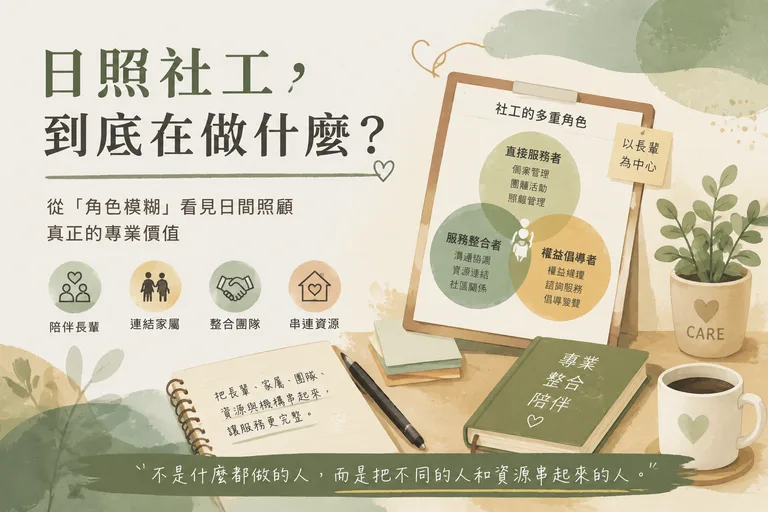
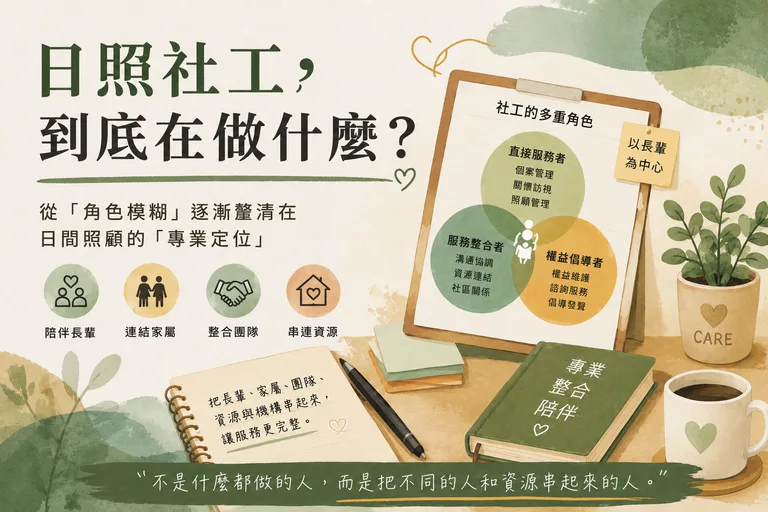
content: 〈日照社工，到底在做什麼？〉換標題、換主視覺、固定排序
標題改為「⋯從『角色模糊』逐漸釐清在日間照顧的『專業定位』」，
seoTitle 與 heroAlt 一併對齊（新圖的三圓改成關懷訪視、交集處多了圖示）。

發布日期從 2026-08-08 改到 08-07。原本兩篇同一天，順序是靠「更新時間」
的次要排序決定的，只要動到這篇它就會跳回最前面。給不同的發布日之後，
它排在〈角色困境〉後面就固定了，之後再改內容也不會亂。

diff --git a/docs/20260808-day-care-social-worker-role/index.html b/docs/20260808-day-care-social-worker-role/index.html
@@ -3,24 +3,24 @@
 <head>
 <meta charset="utf-8" />
 <meta name="viewport" content="width=device-width, initial-scale=1, viewport-fit=cover" />
-<title>日照社工到底在做什麼？從角色模糊釐清日間照顧的專業定位｜顏和平</title>
+<title>日照社工到底在做什麼？從角色模糊逐漸釐清日間照顧的專業定位｜顏和平</title>
 <meta name="description" content="日照社工什麼都做，專業卻難以被說清楚。從訪談六位日照管理者與六位社工的研究出發，拆解日照社工的角色層次、所需能力，以及機構該如何重新界定權責。" />
 <meta name="author" content="顏和平" />
 <meta name="color-scheme" content="light dark" />
 <meta property="og:type" content="article" />
 <meta property="og:site_name" content="顏和平｜長照營運與評鑑顧問" />
-<meta property="og:title" content="日照社工到底在做什麼？從角色模糊釐清日間照顧的專業定位｜顏和平" />
+<meta property="og:title" content="日照社工到底在做什麼？從角色模糊逐漸釐清日間照顧的專業定位｜顏和平" />
 <meta property="og:description" content="日照社工什麼都做，專業卻難以被說清楚。從訪談六位日照管理者與六位社工的研究出發，拆解日照社工的角色層次、所需能力，以及機構該如何重新界定權責。" />
 <meta property="og:locale" content="zh_TW" />
 <meta property="og:image" content="https://peaceyen.net/assets/img/hero-day-care-social-worker-1536.webp" />
 <meta property="og:image:width" content="1536" />
 <meta property="og:image:height" content="1024" />
-<meta property="og:image:alt" content="文章主視覺「日照社工，到底在做什麼？從『角色模糊』看見日間照顧真正的專業價值」。左側標題下方列出四個圖示：陪伴長輩、連結家屬、整合團隊、串連資源。右側畫著一塊寫有「社工的多重角色」的板夾，以三個交疊的圓呈現直接服務者（個案管理、團體活動、照顧管理）、服務整合者（溝通協調、資源連結、社區關係）與權益倡導者（權益維護、諮詢服務、倡導發聲），交集處貼著「以長輩為中心」的便條。桌面上有筆記本，寫著「把長輩、家屬、團隊、資源與機構串起來，讓服務更完整」，旁邊放著標示「專業・整合・陪伴」的書本、盆栽與咖啡杯。最下方標語為「不是什麼都做的人，而是把不同的人和資源串起來的人。」" />
+<meta property="og:image:alt" content="文章主視覺「日照社工，到底在做什麼？從『角色模糊』逐漸釐清在日間照顧的『專業定位』」。左側標題下方列出四個圖示：陪伴長輩、連結家屬、整合團隊、串連資源。右側畫著一塊寫有「社工的多重角色」的板夾，以三個交疊的圓呈現直接服務者（個案管理、關懷訪視、照顧管理）、服務整合者（溝通協調、資源連結、社區關係）與權益倡導者（權益維護、諮詢服務、倡導發聲），三圓交集處畫著一位社工陪伴長輩的圖示，旁邊貼著「以長輩為中心」的便條。桌面上有筆記本，寫著「把長輩、家屬、團隊、資源與機構串起來，讓服務更完整」，旁邊放著標示「專業・整合・陪伴」的書本、盆栽與咖啡杯。最下方標語為「不是什麼都做的人，而是把不同的人和資源串起來的人。」" />
 <meta name="twitter:card" content="summary_large_image" />
-<meta name="twitter:title" content="日照社工到底在做什麼？從角色模糊釐清日間照顧的專業定位｜顏和平" />
+<meta name="twitter:title" content="日照社工到底在做什麼？從角色模糊逐漸釐清日間照顧的專業定位｜顏和平" />
 <meta name="twitter:description" content="日照社工什麼都做，專業卻難以被說清楚。從訪談六位日照管理者與六位社工的研究出發，拆解日照社工的角色層次、所需能力，以及機構該如何重新界定權責。" />
 <meta name="twitter:image" content="https://peaceyen.net/assets/img/hero-day-care-social-worker-1536.webp" />
-<meta name="twitter:image:alt" content="文章主視覺「日照社工，到底在做什麼？從『角色模糊』看見日間照顧真正的專業價值」。左側標題下方列出四個圖示：陪伴長輩、連結家屬、整合團隊、串連資源。右側畫著一塊寫有「社工的多重角色」的板夾，以三個交疊的圓呈現直接服務者（個案管理、團體活動、照顧管理）、服務整合者（溝通協調、資源連結、社區關係）與權益倡導者（權益維護、諮詢服務、倡導發聲），交集處貼著「以長輩為中心」的便條。桌面上有筆記本，寫著「把長輩、家屬、團隊、資源與機構串起來，讓服務更完整」，旁邊放著標示「專業・整合・陪伴」的書本、盆栽與咖啡杯。最下方標語為「不是什麼都做的人，而是把不同的人和資源串起來的人。」" />
+<meta name="twitter:image:alt" content="文章主視覺「日照社工，到底在做什麼？從『角色模糊』逐漸釐清在日間照顧的『專業定位』」。左側標題下方列出四個圖示：陪伴長輩、連結家屬、整合團隊、串連資源。右側畫著一塊寫有「社工的多重角色」的板夾，以三個交疊的圓呈現直接服務者（個案管理、關懷訪視、照顧管理）、服務整合者（溝通協調、資源連結、社區關係）與權益倡導者（權益維護、諮詢服務、倡導發聲），三圓交集處畫著一位社工陪伴長輩的圖示，旁邊貼著「以長輩為中心」的便條。桌面上有筆記本，寫著「把長輩、家屬、團隊、資源與機構串起來，讓服務更完整」，旁邊放著標示「專業・整合・陪伴」的書本、盆栽與咖啡杯。最下方標語為「不是什麼都做的人，而是把不同的人和資源串起來的人。」" />
 <meta property="og:url" content="https://peaceyen.net/20260808-day-care-social-worker-role/" />
 <link rel="canonical" href="https://peaceyen.net/20260808-day-care-social-worker-role/" />
 <link rel="stylesheet" href="../assets/css/site.css?v=919bf9b5eb" />
@@ -28,10 +28,10 @@
 <link rel="icon" href="../favicon.ico" sizes="32x32" />
 <link rel="apple-touch-icon" href="../assets/img/icon-512.png" />
 <link rel="alternate" type="application/rss+xml" title="顏和平｜長照營運與評鑑顧問" href="../feed.xml" />
-<meta property="article:published_time" content="2026-08-08" />
+<meta property="article:published_time" content="2026-08-07" />
 <meta property="article:modified_time" content="2026-08-08" />
 <meta property="article:author" content="顏和平" />
-<script type="application/ld+json">{"@context":"https://schema.org","@graph":[{"@type":"WebSite","@id":"https://peaceyen.net/#website","url":"https://peaceyen.net/","name":"顏和平｜長照營運與評鑑顧問","alternateName":"機構經營實務筆記","inLanguage":"zh-Hant-TW","publisher":{"@id":"https://peaceyen.net/about/#person"}},{"@type":"BlogPosting","headline":"日照社工，到底在做什麼？從「角色模糊」釐清在日間照顧的專業定位","description":"長輩有問題找社工、家屬有疑問找社工、活動要規劃也找社工。日照社工好像什麼都能做，卻也因此很難說清楚自己的專業到底是什麼。這篇從我過去的研究出發，談日照社工的角色、需要的能力，以及機構可以怎麼重新看待這個位置。","inLanguage":"zh-Hant-TW","isPartOf":{"@id":"https://peaceyen.net/#website"},"breadcrumb":{"@id":"https://peaceyen.net/20260808-day-care-social-worker-role/#breadcrumb"},"url":"https://peaceyen.net/20260808-day-care-social-worker-role/","mainEntityOfPage":{"@type":"WebPage","@id":"https://peaceyen.net/20260808-day-care-social-worker-role/"},"image":{"@type":"ImageObject","url":"https://peaceyen.net/assets/img/hero-day-care-social-worker-1536.webp","width":1536,"height":1024},"datePublished":"2026-08-08","dateModified":"2026-08-08","author":{"@id":"https://peaceyen.net/about/#person"},"publisher":{"@id":"https://peaceyen.net/about/#person"},"keywords":"日間照顧, 社會工作, 專業角色"},{"@type":"BreadcrumbList","@id":"https://peaceyen.net/20260808-day-care-social-worker-role/#breadcrumb","itemListElement":[{"@type":"ListItem","position":1,"name":"顏和平｜長照營運與評鑑顧問","item":"https://peaceyen.net/"},{"@type":"ListItem","position":2,"name":"全部文章","item":"https://peaceyen.net/articles/"},{"@type":"ListItem","position":3,"name":"日照社工，到底在做什麼？從「角色模糊」釐清在日間照顧的專業定位"}]}]}</script>
+<script type="application/ld+json">{"@context":"https://schema.org","@graph":[{"@type":"WebSite","@id":"https://peaceyen.net/#website","url":"https://peaceyen.net/","name":"顏和平｜長照營運與評鑑顧問","alternateName":"機構經營實務筆記","inLanguage":"zh-Hant-TW","publisher":{"@id":"https://peaceyen.net/about/#person"}},{"@type":"BlogPosting","headline":"日照社工，到底在做什麼？從「角色模糊」逐漸釐清在日間照顧的「專業定位」","description":"長輩有問題找社工、家屬有疑問找社工、活動要規劃也找社工。日照社工好像什麼都能做，卻也因此很難說清楚自己的專業到底是什麼。這篇從我過去的研究出發，談日照社工的角色、需要的能力，以及機構可以怎麼重新看待這個位置。","inLanguage":"zh-Hant-TW","isPartOf":{"@id":"https://peaceyen.net/#website"},"breadcrumb":{"@id":"https://peaceyen.net/20260808-day-care-social-worker-role/#breadcrumb"},"url":"https://peaceyen.net/20260808-day-care-social-worker-role/","mainEntityOfPage":{"@type":"WebPage","@id":"https://peaceyen.net/20260808-day-care-social-worker-role/"},"image":{"@type":"ImageObject","url":"https://peaceyen.net/assets/img/hero-day-care-social-worker-1536.webp","width":1536,"height":1024},"datePublished":"2026-08-07","dateModified":"2026-08-08","author":{"@id":"https://peaceyen.net/about/#person"},"publisher":{"@id":"https://peaceyen.net/about/#person"},"keywords":"日間照顧, 社會工作, 專業角色"},{"@type":"BreadcrumbList","@id":"https://peaceyen.net/20260808-day-care-social-worker-role/#breadcrumb","itemListElement":[{"@type":"ListItem","position":1,"name":"顏和平｜長照營運與評鑑顧問","item":"https://peaceyen.net/"},{"@type":"ListItem","position":2,"name":"全部文章","item":"https://peaceyen.net/articles/"},{"@type":"ListItem","position":3,"name":"日照社工，到底在做什麼？從「角色模糊」逐漸釐清在日間照顧的「專業定位」"}]}]}</script>
 <script>
   window.__SITE__ = { counter: { apiBase: "https://peaceyen.net" } };
 </script>
@@ -63,13 +63,13 @@
 
       <section class="hero">
         <figure class="hero__figure">
-          <a class="hero__zoom" href="../assets/img/hero-day-care-social-worker-1536.webp?v=f636309517" target="_blank" rel="noopener noreferrer" aria-describedby="hero-caption">
+          <a class="hero__zoom" href="../assets/img/hero-day-care-social-worker-1536.webp?v=20ad0a0def" target="_blank" rel="noopener noreferrer" aria-describedby="hero-caption">
             <img
             class="hero__img"
-            src="../assets/img/hero-day-care-social-worker-1536.webp?v=f636309517"
-            srcset="../assets/img/hero-day-care-social-worker-768.webp?v=1c478fbc16 768w, ../assets/img/hero-day-care-social-worker-1152.webp?v=a0abfc4b02 1152w, ../assets/img/hero-day-care-social-worker-1536.webp?v=f636309517 1536w"
+            src="../assets/img/hero-day-care-social-worker-1536.webp?v=20ad0a0def"
+            srcset="../assets/img/hero-day-care-social-worker-768.webp?v=eba2ad1f05 768w, ../assets/img/hero-day-care-social-worker-1152.webp?v=901bdd18dc 1152w, ../assets/img/hero-day-care-social-worker-1536.webp?v=20ad0a0def 1536w"
             sizes="(max-width: 44rem) 100vw, 42rem"
-            alt="文章主視覺「日照社工，到底在做什麼？從『角色模糊』看見日間照顧真正的專業價值」。左側標題下方列出四個圖示：陪伴長輩、連結家屬、整合團隊、串連資源。右側畫著一塊寫有「社工的多重角色」的板夾，以三個交疊的圓呈現直接服務者（個案管理、團體活動、照顧管理）、服務整合者（溝通協調、資源連結、社區關係）與權益倡導者（權益維護、諮詢服務、倡導發聲），交集處貼著「以長輩為中心」的便條。桌面上有筆記本，寫著「把長輩、家屬、團隊、資源與機構串起來，讓服務更完整」，旁邊放著標示「專業・整合・陪伴」的書本、盆栽與咖啡杯。最下方標語為「不是什麼都做的人，而是把不同的人和資源串起來的人。」"
+            alt="文章主視覺「日照社工，到底在做什麼？從『角色模糊』逐漸釐清在日間照顧的『專業定位』」。左側標題下方列出四個圖示：陪伴長輩、連結家屬、整合團隊、串連資源。右側畫著一塊寫有「社工的多重角色」的板夾，以三個交疊的圓呈現直接服務者（個案管理、關懷訪視、照顧管理）、服務整合者（溝通協調、資源連結、社區關係）與權益倡導者（權益維護、諮詢服務、倡導發聲），三圓交集處畫著一位社工陪伴長輩的圖示，旁邊貼著「以長輩為中心」的便條。桌面上有筆記本，寫著「把長輩、家屬、團隊、資源與機構串起來，讓服務更完整」，旁邊放著標示「專業・整合・陪伴」的書本、盆栽與咖啡杯。最下方標語為「不是什麼都做的人，而是把不同的人和資源串起來的人。」"
             width="1536"
             height="1024"
             fetchpriority="high"
@@ -80,7 +80,7 @@
         </figure>
         <div class="hero__text">
           <p class="hero__eyebrow">日間照顧</p>
-          <h1 class="hero__title">日照社工，到底在做什麼？從「角色模糊」釐清在日間照顧的專業定位</h1>
+          <h1 class="hero__title">日照社工，到底在做什麼？從「角色模糊」逐漸釐清在日間照顧的「專業定位」</h1>
           <p class="hero__lede">長輩有問題找社工、家屬有疑問找社工、活動要規劃也找社工。日照社工好像什麼都能做，卻也因此很難說清楚自己的專業到底是什麼。這篇從我過去的研究出發，談日照社工的角色、需要的能力，以及機構可以怎麼重新看待這個位置。</p>
         </div>
       </section>
@@ -91,14 +91,14 @@
             <span aria-hidden="true">›</span>
             <a href="../articles/">全部文章</a>
             <span aria-hidden="true">›</span>
-            <span aria-current="page">日照社工，到底在做什麼？從「角色模糊」釐清在日間照顧的專業定位</span>
+            <span aria-current="page">日照社工，到底在做什麼？從「角色模糊」逐漸釐清在日間照顧的「專業定位」</span>
           </nav>
           <div class="post__head">
             <p class="post__meta">
               <span class="post__author">作者：顏和平</span>
               <span class="dot" aria-hidden="true">·</span>
-              <span>發布 <time datetime="2026-08-08">2026-08-08</time></span>
-              
+              <span>發布 <time datetime="2026-08-07">2026-08-07</time></span>
+              <span class="dot" aria-hidden="true">·</span><span>最後更新 <time datetime="2026-08-08">2026-08-08</time></span>
               <span class="dot" aria-hidden="true">·</span>
               <span>瀏覽 <span data-views="20260808-day-care-social-worker-role"><span class="sr-only">尚未載入</span><span aria-hidden="true">–</span></span></span>
             </p>
@@ -111,7 +111,7 @@
             <a class="share__btn" href="https://www.facebook.com/sharer/sharer.php?u=https%3A%2F%2Fpeaceyen.net%2F20260808-day-care-social-worker-role%2F" target="_blank" rel="noopener noreferrer" aria-describedby="newtab-note" aria-label="分享到 Facebook" title="分享到 Facebook">
               <svg viewBox="0 0 24 24" fill="none" stroke="currentColor" stroke-width="1.6" stroke-linecap="round" stroke-linejoin="round" aria-hidden="true" focusable="false"><path d="M17 2h-3a5 5 0 0 0-5 5v3H6v4h3v8h4v-8h3l1-4h-4V7a1 1 0 0 1 1-1h3z"/></svg>
             </a>
-            <a class="share__btn" href="https://social-plugins.line.me/lineit/share?url=https%3A%2F%2Fpeaceyen.net%2F20260808-day-care-social-worker-role%2F&amp;text=%E6%97%A5%E7%85%A7%E7%A4%BE%E5%B7%A5%EF%BC%8C%E5%88%B0%E5%BA%95%E5%9C%A8%E5%81%9A%E4%BB%80%E9%BA%BC%EF%BC%9F%E5%BE%9E%E3%80%8C%E8%A7%92%E8%89%B2%E6%A8%A1%E7%B3%8A%E3%80%8D%E9%87%90%E6%B8%85%E5%9C%A8%E6%97%A5%E9%96%93%E7%85%A7%E9%A1%A7%E7%9A%84%E5%B0%88%E6%A5%AD%E5%AE%9A%E4%BD%8D" target="_blank" rel="noopener noreferrer" aria-describedby="newtab-note" aria-label="分享到 LINE" title="分享到 LINE">
+            <a class="share__btn" href="https://social-plugins.line.me/lineit/share?url=https%3A%2F%2Fpeaceyen.net%2F20260808-day-care-social-worker-role%2F&amp;text=%E6%97%A5%E7%85%A7%E7%A4%BE%E5%B7%A5%EF%BC%8C%E5%88%B0%E5%BA%95%E5%9C%A8%E5%81%9A%E4%BB%80%E9%BA%BC%EF%BC%9F%E5%BE%9E%E3%80%8C%E8%A7%92%E8%89%B2%E6%A8%A1%E7%B3%8A%E3%80%8D%E9%80%90%E6%BC%B8%E9%87%90%E6%B8%85%E5%9C%A8%E6%97%A5%E9%96%93%E7%85%A7%E9%A1%A7%E7%9A%84%E3%80%8C%E5%B0%88%E6%A5%AD%E5%AE%9A%E4%BD%8D%E3%80%8D" target="_blank" rel="noopener noreferrer" aria-describedby="newtab-note" aria-label="分享到 LINE" title="分享到 LINE">
               <svg viewBox="0 0 24 24" fill="none" stroke="currentColor" stroke-width="1.6" stroke-linecap="round" stroke-linejoin="round" aria-hidden="true" focusable="false"><path d="M21 10.4c0-4.1-4-7.4-9-7.4S3 6.3 3 10.4c0 3.6 3.2 6.7 7.5 7.3.3.1.7.2.8.5.1.3.1.6 0 .9l-.1.8c0 .3-.2 1 .9.5s5.7-3.4 7.7-5.8h0A6.6 6.6 0 0 0 21 10.4z"/></svg>
             </a>
             <span class="share__status" role="status" aria-live="polite"></span>
@@ -224,7 +224,7 @@
             <a class="share__btn" href="https://www.facebook.com/sharer/sharer.php?u=https%3A%2F%2Fpeaceyen.net%2F20260808-day-care-social-worker-role%2F" target="_blank" rel="noopener noreferrer" aria-describedby="newtab-note">
               <svg viewBox="0 0 24 24" fill="none" stroke="currentColor" stroke-width="1.6" stroke-linecap="round" stroke-linejoin="round" aria-hidden="true" focusable="false"><path d="M17 2h-3a5 5 0 0 0-5 5v3H6v4h3v8h4v-8h3l1-4h-4V7a1 1 0 0 1 1-1h3z"/></svg><span>Facebook</span>
             </a>
-            <a class="share__btn" href="https://social-plugins.line.me/lineit/share?url=https%3A%2F%2Fpeaceyen.net%2F20260808-day-care-social-worker-role%2F&amp;text=%E6%97%A5%E7%85%A7%E7%A4%BE%E5%B7%A5%EF%BC%8C%E5%88%B0%E5%BA%95%E5%9C%A8%E5%81%9A%E4%BB%80%E9%BA%BC%EF%BC%9F%E5%BE%9E%E3%80%8C%E8%A7%92%E8%89%B2%E6%A8%A1%E7%B3%8A%E3%80%8D%E9%87%90%E6%B8%85%E5%9C%A8%E6%97%A5%E9%96%93%E7%85%A7%E9%A1%A7%E7%9A%84%E5%B0%88%E6%A5%AD%E5%AE%9A%E4%BD%8D" target="_blank" rel="noopener noreferrer" aria-describedby="newtab-note">
+            <a class="share__btn" href="https://social-plugins.line.me/lineit/share?url=https%3A%2F%2Fpeaceyen.net%2F20260808-day-care-social-worker-role%2F&amp;text=%E6%97%A5%E7%85%A7%E7%A4%BE%E5%B7%A5%EF%BC%8C%E5%88%B0%E5%BA%95%E5%9C%A8%E5%81%9A%E4%BB%80%E9%BA%BC%EF%BC%9F%E5%BE%9E%E3%80%8C%E8%A7%92%E8%89%B2%E6%A8%A1%E7%B3%8A%E3%80%8D%E9%80%90%E6%BC%B8%E9%87%90%E6%B8%85%E5%9C%A8%E6%97%A5%E9%96%93%E7%85%A7%E9%A1%A7%E7%9A%84%E3%80%8C%E5%B0%88%E6%A5%AD%E5%AE%9A%E4%BD%8D%E3%80%8D" target="_blank" rel="noopener noreferrer" aria-describedby="newtab-note">
               <svg viewBox="0 0 24 24" fill="none" stroke="currentColor" stroke-width="1.6" stroke-linecap="round" stroke-linejoin="round" aria-hidden="true" focusable="false"><path d="M21 10.4c0-4.1-4-7.4-9-7.4S3 6.3 3 10.4c0 3.6 3.2 6.7 7.5 7.3.3.1.7.2.8.5.1.3.1.6 0 .9l-.1.8c0 .3-.2 1 .9.5s5.7-3.4 7.7-5.8h0A6.6 6.6 0 0 0 21 10.4z"/></svg><span>LINE</span>
             </a>
             <span class="share__status" role="status" aria-live="polite"></span>

diff --git a/docs/index.html b/docs/index.html
@@ -28,7 +28,7 @@
 <link rel="icon" href="favicon.ico" sizes="32x32" />
 <link rel="apple-touch-icon" href="assets/img/icon-512.png" />
 <link rel="alternate" type="application/rss+xml" title="顏和平｜長照營運與評鑑顧問" href="feed.xml" />
-<script type="application/ld+json">{"@context":"https://schema.org","@graph":[{"@type":"WebSite","@id":"https://peaceyen.net/#website","url":"https://peaceyen.net/","name":"顏和平｜長照營運與評鑑顧問","alternateName":"機構經營實務筆記","inLanguage":"zh-Hant-TW","publisher":{"@id":"https://peaceyen.net/about/#person"}},{"@type":"Blog","@id":"https://peaceyen.net/#blog","url":"https://peaceyen.net/","name":"顏和平｜長照營運與評鑑顧問","description":"聚焦台灣長照機構的營運管理實務：人力配置、法規遵循、品質稽核、成本結構與日常流程改善。","inLanguage":"zh-Hant-TW","isPartOf":{"@id":"https://peaceyen.net/#website"},"breadcrumb":{"@id":"https://peaceyen.net/#breadcrumb"},"author":{"@id":"https://peaceyen.net/about/#person"},"publisher":{"@id":"https://peaceyen.net/about/#person"},"blogPost":[{"@type":"BlogPosting","headline":"日照社工的角色困境：當「什麼都做」成為專業的另一種負擔","description":"個案要做、家屬要聯繫、活動要規劃、核銷要處理、評鑑要準備，現場缺人還要下去補。在日照中心，什麼事情都可以找社工。但當一個人什麼都做的時候，他真正的專業反而可能越來越不容易被看見。","url":"https://peaceyen.net/20260808-day-care-social-worker-dilemma/","image":{"@type":"ImageObject","url":"https://peaceyen.net/assets/img/hero-day-care-social-worker-dilemma-1536.webp","width":1536,"height":1024},"datePublished":"2026-08-08","dateModified":"2026-08-08","author":{"@id":"https://peaceyen.net/about/#person"}},{"@type":"BlogPosting","headline":"日照社工，到底在做什麼？從「角色模糊」釐清在日間照顧的專業定位","description":"長輩有問題找社工、家屬有疑問找社工、活動要規劃也找社工。日照社工好像什麼都能做，卻也因此很難說清楚自己的專業到底是什麼。這篇從我過去的研究出發，談日照社工的角色、需要的能力，以及機構可以怎麼重新看待這個位置。","url":"https://peaceyen.net/20260808-day-care-social-worker-role/","image":{"@type":"ImageObject","url":"https://peaceyen.net/assets/img/hero-day-care-social-worker-1536.webp","width":1536,"height":1024},"datePublished":"2026-08-08","dateModified":"2026-08-08","author":{"@id":"https://peaceyen.net/about/#person"}},{"@type":"BlogPosting","headline":"解構日照評鑑痛點：如何從「事件中心」走向「服務中心」的日常管理？","description":"現行評鑑制度傾向以「事件為中心」設計，讓第一線人員在緊湊的服務節奏中難以流暢完成文件紀錄。要突破這個瓶頸，得回到服務流程管理的角度，把指標拆解重組進日常工作。","url":"https://www.ankecare.com/article/4571-2026-07-27-10-40-23","image":{"@type":"ImageObject","url":"https://peaceyen.net/assets/img/hero-event-to-service-1536.webp","width":1536,"height":1024},"datePublished":"2026-08-02","dateModified":"2026-08-04","author":{"@id":"https://peaceyen.net/about/#person"}},{"@type":"BlogPosting","headline":"我的長照，從第一線開始","description":"很多人認識現在的我，是顧問、講師或博士生。但我的長照旅程不是從研究室開始，而是從照顧服務員開始。這篇談我一路走過的角色，以及為什麼我認為長照需要的不只是努力，而是方法。","url":"https://peaceyen.net/20260804-my-ltc-journey/","image":{"@type":"ImageObject","url":"https://peaceyen.net/assets/img/hero-my-ltc-journey-1536.webp","width":1536,"height":1024},"datePublished":"2026-08-01","dateModified":"2026-08-08","author":{"@id":"https://peaceyen.net/about/#person"}}]},{"@type":"BreadcrumbList","@id":"https://peaceyen.net/#breadcrumb","itemListElement":[{"@type":"ListItem","position":1,"name":"顏和平｜長照營運與評鑑顧問","item":"https://peaceyen.net/"}]}]}</script>
+<script type="application/ld+json">{"@context":"https://schema.org","@graph":[{"@type":"WebSite","@id":"https://peaceyen.net/#website","url":"https://peaceyen.net/","name":"顏和平｜長照營運與評鑑顧問","alternateName":"機構經營實務筆記","inLanguage":"zh-Hant-TW","publisher":{"@id":"https://peaceyen.net/about/#person"}},{"@type":"Blog","@id":"https://peaceyen.net/#blog","url":"https://peaceyen.net/","name":"顏和平｜長照營運與評鑑顧問","description":"聚焦台灣長照機構的營運管理實務：人力配置、法規遵循、品質稽核、成本結構與日常流程改善。","inLanguage":"zh-Hant-TW","isPartOf":{"@id":"https://peaceyen.net/#website"},"breadcrumb":{"@id":"https://peaceyen.net/#breadcrumb"},"author":{"@id":"https://peaceyen.net/about/#person"},"publisher":{"@id":"https://peaceyen.net/about/#person"},"blogPost":[{"@type":"BlogPosting","headline":"日照社工的角色困境：當「什麼都做」成為專業的另一種負擔","description":"個案要做、家屬要聯繫、活動要規劃、核銷要處理、評鑑要準備，現場缺人還要下去補。在日照中心，什麼事情都可以找社工。但當一個人什麼都做的時候，他真正的專業反而可能越來越不容易被看見。","url":"https://peaceyen.net/20260808-day-care-social-worker-dilemma/","image":{"@type":"ImageObject","url":"https://peaceyen.net/assets/img/hero-day-care-social-worker-dilemma-1536.webp","width":1536,"height":1024},"datePublished":"2026-08-08","dateModified":"2026-08-08","author":{"@id":"https://peaceyen.net/about/#person"}},{"@type":"BlogPosting","headline":"日照社工，到底在做什麼？從「角色模糊」逐漸釐清在日間照顧的「專業定位」","description":"長輩有問題找社工、家屬有疑問找社工、活動要規劃也找社工。日照社工好像什麼都能做，卻也因此很難說清楚自己的專業到底是什麼。這篇從我過去的研究出發，談日照社工的角色、需要的能力，以及機構可以怎麼重新看待這個位置。","url":"https://peaceyen.net/20260808-day-care-social-worker-role/","image":{"@type":"ImageObject","url":"https://peaceyen.net/assets/img/hero-day-care-social-worker-1536.webp","width":1536,"height":1024},"datePublished":"2026-08-07","dateModified":"2026-08-08","author":{"@id":"https://peaceyen.net/about/#person"}},{"@type":"BlogPosting","headline":"解構日照評鑑痛點：如何從「事件中心」走向「服務中心」的日常管理？","description":"現行評鑑制度傾向以「事件為中心」設計，讓第一線人員在緊湊的服務節奏中難以流暢完成文件紀錄。要突破這個瓶頸，得回到服務流程管理的角度，把指標拆解重組進日常工作。","url":"https://www.ankecare.com/article/4571-2026-07-27-10-40-23","image":{"@type":"ImageObject","url":"https://peaceyen.net/assets/img/hero-event-to-service-1536.webp","width":1536,"height":1024},"datePublished":"2026-08-02","dateModified":"2026-08-04","author":{"@id":"https://peaceyen.net/about/#person"}},{"@type":"BlogPosting","headline":"我的長照，從第一線開始","description":"很多人認識現在的我，是顧問、講師或博士生。但我的長照旅程不是從研究室開始，而是從照顧服務員開始。這篇談我一路走過的角色，以及為什麼我認為長照需要的不只是努力，而是方法。","url":"https://peaceyen.net/20260804-my-ltc-journey/","image":{"@type":"ImageObject","url":"https://peaceyen.net/assets/img/hero-my-ltc-journey-1536.webp","width":1536,"height":1024},"datePublished":"2026-08-01","dateModified":"2026-08-08","author":{"@id":"https://peaceyen.net/about/#person"}}]},{"@type":"BreadcrumbList","@id":"https://peaceyen.net/#breadcrumb","itemListElement":[{"@type":"ListItem","position":1,"name":"顏和平｜長照營運與評鑑顧問","item":"https://peaceyen.net/"}]}]}</script>
 <script>
   window.__SITE__ = { counter: { apiBase: "https://peaceyen.net" } };
 </script>
@@ -156,8 +156,8 @@
           <article>
             <a class="card__thumb" href="20260808-day-care-social-worker-role/" tabindex="-1" aria-hidden="true">
               <img
-                src="assets/img/hero-day-care-social-worker-1536.webp?v=f636309517"
-                srcset="assets/img/hero-day-care-social-worker-768.webp?v=1c478fbc16 768w, assets/img/hero-day-care-social-worker-1152.webp?v=a0abfc4b02 1152w, assets/img/hero-day-care-social-worker-1536.webp?v=f636309517 1536w"
+                src="assets/img/hero-day-care-social-worker-1536.webp?v=20ad0a0def"
+                srcset="assets/img/hero-day-care-social-worker-768.webp?v=eba2ad1f05 768w, assets/img/hero-day-care-social-worker-1152.webp?v=901bdd18dc 1152w, assets/img/hero-day-care-social-worker-1536.webp?v=20ad0a0def 1536w"
                 sizes="(max-width: 46rem) calc(100vw - 2rem), 27rem"
                 alt=""
                 width="1536"
@@ -165,14 +165,14 @@
                 loading="lazy" decoding="async"
               />
             </a>
-            <h3 class="card__title"><a href="20260808-day-care-social-worker-role/">日照社工，到底在做什麼？從「角色模糊」釐清在日間照顧的專業定位</a></h3>
+            <h3 class="card__title"><a href="20260808-day-care-social-worker-role/">日照社工，到底在做什麼？從「角色模糊」逐漸釐清在日間照顧的「專業定位」</a></h3>
             <p class="card__summary">長輩有問題找社工、家屬有疑問找社工、活動要規劃也找社工。日照社工好像什麼都能做，卻也因此很難說清楚自己的專業到底是什麼。這篇從我過去的研究出發，談日照社工的角色、需要的能力，以及機構可以怎麼重新看待這個位置。</p>
             <p class="card__tags"><span class="tag">日間照顧</span><span class="tag">社會工作</span><span class="tag">專業角色</span></p>
             <p class="card__meta">
               <span class="card__author">顏和平</span>
               <span class="dot" aria-hidden="true">·</span>
-              <span>發布 <time datetime="2026-08-08">2026-08-08</time></span>
-              
+              <span>發布 <time datetime="2026-08-07">2026-08-07</time></span>
+              <span class="dot" aria-hidden="true">·</span><span>更新 <time datetime="2026-08-08">2026-08-08</time></span>
               <span class="dot" aria-hidden="true">·</span>
               <span class="card__views">瀏覽 <span data-views="20260808-day-care-social-worker-role"><span class="sr-only">尚未載入</span><span aria-hidden="true">–</span></span></span>
             </p>

diff --git a/docs/articles/index.html b/docs/articles/index.html
@@ -106,8 +106,8 @@
           <article>
             <a class="card__thumb" href="../20260808-day-care-social-worker-role/" tabindex="-1" aria-hidden="true">
               <img
-                src="../assets/img/hero-day-care-social-worker-1536.webp?v=f636309517"
-                srcset="../assets/img/hero-day-care-social-worker-768.webp?v=1c478fbc16 768w, ../assets/img/hero-day-care-social-worker-1152.webp?v=a0abfc4b02 1152w, ../assets/img/hero-day-care-social-worker-1536.webp?v=f636309517 1536w"
+                src="../assets/img/hero-day-care-social-worker-1536.webp?v=20ad0a0def"
+                srcset="../assets/img/hero-day-care-social-worker-768.webp?v=eba2ad1f05 768w, ../assets/img/hero-day-care-social-worker-1152.webp?v=901bdd18dc 1152w, ../assets/img/hero-day-care-social-worker-1536.webp?v=20ad0a0def 1536w"
                 sizes="(max-width: 46rem) calc(100vw - 2rem), 27rem"
                 alt=""
                 width="1536"
@@ -115,14 +115,14 @@
                 loading="lazy" decoding="async"
               />
             </a>
-            <h2 class="card__title"><a href="../20260808-day-care-social-worker-role/">日照社工，到底在做什麼？從「角色模糊」釐清在日間照顧的專業定位</a></h2>
+            <h2 class="card__title"><a href="../20260808-day-care-social-worker-role/">日照社工，到底在做什麼？從「角色模糊」逐漸釐清在日間照顧的「專業定位」</a></h2>
             <p class="card__summary">長輩有問題找社工、家屬有疑問找社工、活動要規劃也找社工。日照社工好像什麼都能做，卻也因此很難說清楚自己的專業到底是什麼。這篇從我過去的研究出發，談日照社工的角色、需要的能力，以及機構可以怎麼重新看待這個位置。</p>
             <p class="card__tags"><span class="tag">日間照顧</span><span class="tag">社會工作</span><span class="tag">專業角色</span></p>
             <p class="card__meta">
               <span class="card__author">顏和平</span>
               <span class="dot" aria-hidden="true">·</span>
-              <span>發布 <time datetime="2026-08-08">2026-08-08</time></span>
-              
+              <span>發布 <time datetime="2026-08-07">2026-08-07</time></span>
+              <span class="dot" aria-hidden="true">·</span><span>更新 <time datetime="2026-08-08">2026-08-08</time></span>
               <span class="dot" aria-hidden="true">·</span>
               <span class="card__views">瀏覽 <span data-views="20260808-day-care-social-worker-role"><span class="sr-only">尚未載入</span><span aria-hidden="true">–</span></span></span>
             </p>

diff --git a/docs/20260804-my-ltc-journey/index.html b/docs/20260804-my-ltc-journey/index.html
@@ -197,7 +197,7 @@
             <h2 class="related__head">其他文章</h2>
             <ul class="related__list">
               <li><a href="../20260808-day-care-social-worker-dilemma/">日照社工的角色困境：當「什麼都做」成為專業的另一種負擔</a></li>
-              <li><a href="../20260808-day-care-social-worker-role/">日照社工，到底在做什麼？從「角色模糊」釐清在日間照顧的專業定位</a></li>
+              <li><a href="../20260808-day-care-social-worker-role/">日照社工，到底在做什麼？從「角色模糊」逐漸釐清在日間照顧的「專業定位」</a></li>
               <li><a href="../20260802-service-centered-accreditation/">解構日照評鑑痛點：如何從「事件中心」走向「服務中心」的日常管理？</a></li>
             </ul>
           </nav>

diff --git a/docs/20260808-day-care-social-worker-dilemma/index.html b/docs/20260808-day-care-social-worker-dilemma/index.html
@@ -230,7 +230,7 @@
           <nav class="related" aria-label="其他文章">
             <h2 class="related__head">其他文章</h2>
             <ul class="related__list">
-              <li><a href="../20260808-day-care-social-worker-role/">日照社工，到底在做什麼？從「角色模糊」釐清在日間照顧的專業定位</a></li>
+              <li><a href="../20260808-day-care-social-worker-role/">日照社工，到底在做什麼？從「角色模糊」逐漸釐清在日間照顧的「專業定位」</a></li>
               <li><a href="../20260802-service-centered-accreditation/">解構日照評鑑痛點：如何從「事件中心」走向「服務中心」的日常管理？</a></li>
               <li><a href="../20260804-my-ltc-journey/">我的長照，從第一線開始</a></li>
             </ul>

diff --git a/docs/20260802-service-centered-accreditation/index.html b/docs/20260802-service-centered-accreditation/index.html
@@ -193,7 +193,7 @@
             <h2 class="related__head">其他文章</h2>
             <ul class="related__list">
               <li><a href="../20260808-day-care-social-worker-dilemma/">日照社工的角色困境：當「什麼都做」成為專業的另一種負擔</a></li>
-              <li><a href="../20260808-day-care-social-worker-role/">日照社工，到底在做什麼？從「角色模糊」釐清在日間照顧的專業定位</a></li>
+              <li><a href="../20260808-day-care-social-worker-role/">日照社工，到底在做什麼？從「角色模糊」逐漸釐清在日間照顧的「專業定位」</a></li>
               <li><a href="../20260804-my-ltc-journey/">我的長照，從第一線開始</a></li>
             </ul>
           </nav>

diff --git a/content/posts/20260808-day-care-social-worker-role.md b/content/posts/20260808-day-care-social-worker-role.md
@@ -1,15 +1,15 @@
 ---
-title: 日照社工，到底在做什麼？從「角色模糊」釐清在日間照顧的專業定位
-date: 2026-08-08
+title: 日照社工，到底在做什麼？從「角色模糊」逐漸釐清在日間照顧的「專業定位」
+date: 2026-08-07
 summary: 長輩有問題找社工、家屬有疑問找社工、活動要規劃也找社工。日照社工好像什麼都能做，卻也因此很難說清楚自己的專業到底是什麼。這篇從我過去的研究出發，談日照社工的角色、需要的能力，以及機構可以怎麼重新看待這個位置。
-seoTitle: 日照社工到底在做什麼？從角色模糊釐清日間照顧的專業定位｜顏和平
+seoTitle: 日照社工到底在做什麼？從角色模糊逐漸釐清日間照顧的專業定位｜顏和平
 metaDescription: 日照社工什麼都做，專業卻難以被說清楚。從訪談六位日照管理者與六位社工的研究出發，拆解日照社工的角色層次、所需能力，以及機構該如何重新界定權責。
 tags: 日間照顧, 社會工作, 專業角色
 heroImage: hero-day-care-social-worker.webp
 heroWidth: 1536
 heroHeight: 1024
 heroSrcsetWidths: 768, 1152, 1536
-heroAlt: 文章主視覺「日照社工，到底在做什麼？從『角色模糊』看見日間照顧真正的專業價值」。左側標題下方列出四個圖示：陪伴長輩、連結家屬、整合團隊、串連資源。右側畫著一塊寫有「社工的多重角色」的板夾，以三個交疊的圓呈現直接服務者（個案管理、團體活動、照顧管理）、服務整合者（溝通協調、資源連結、社區關係）與權益倡導者（權益維護、諮詢服務、倡導發聲），交集處貼著「以長輩為中心」的便條。桌面上有筆記本，寫著「把長輩、家屬、團隊、資源與機構串起來，讓服務更完整」，旁邊放著標示「專業・整合・陪伴」的書本、盆栽與咖啡杯。最下方標語為「不是什麼都做的人，而是把不同的人和資源串起來的人。」
+heroAlt: 文章主視覺「日照社工，到底在做什麼？從『角色模糊』逐漸釐清在日間照顧的『專業定位』」。左側標題下方列出四個圖示：陪伴長輩、連結家屬、整合團隊、串連資源。右側畫著一塊寫有「社工的多重角色」的板夾，以三個交疊的圓呈現直接服務者（個案管理、關懷訪視、照顧管理）、服務整合者（溝通協調、資源連結、社區關係）與權益倡導者（權益維護、諮詢服務、倡導發聲），三圓交集處畫著一位社工陪伴長輩的圖示，旁邊貼著「以長輩為中心」的便條。桌面上有筆記本，寫著「把長輩、家屬、團隊、資源與機構串起來，讓服務更完整」，旁邊放著標示「專業・整合・陪伴」的書本、盆栽與咖啡杯。最下方標語為「不是什麼都做的人，而是把不同的人和資源串起來的人。」
 heroCaption: （圖片來源／顏和平）
 heroCredit: 本頁 HERO 圖由本站作者製作。
 ---
